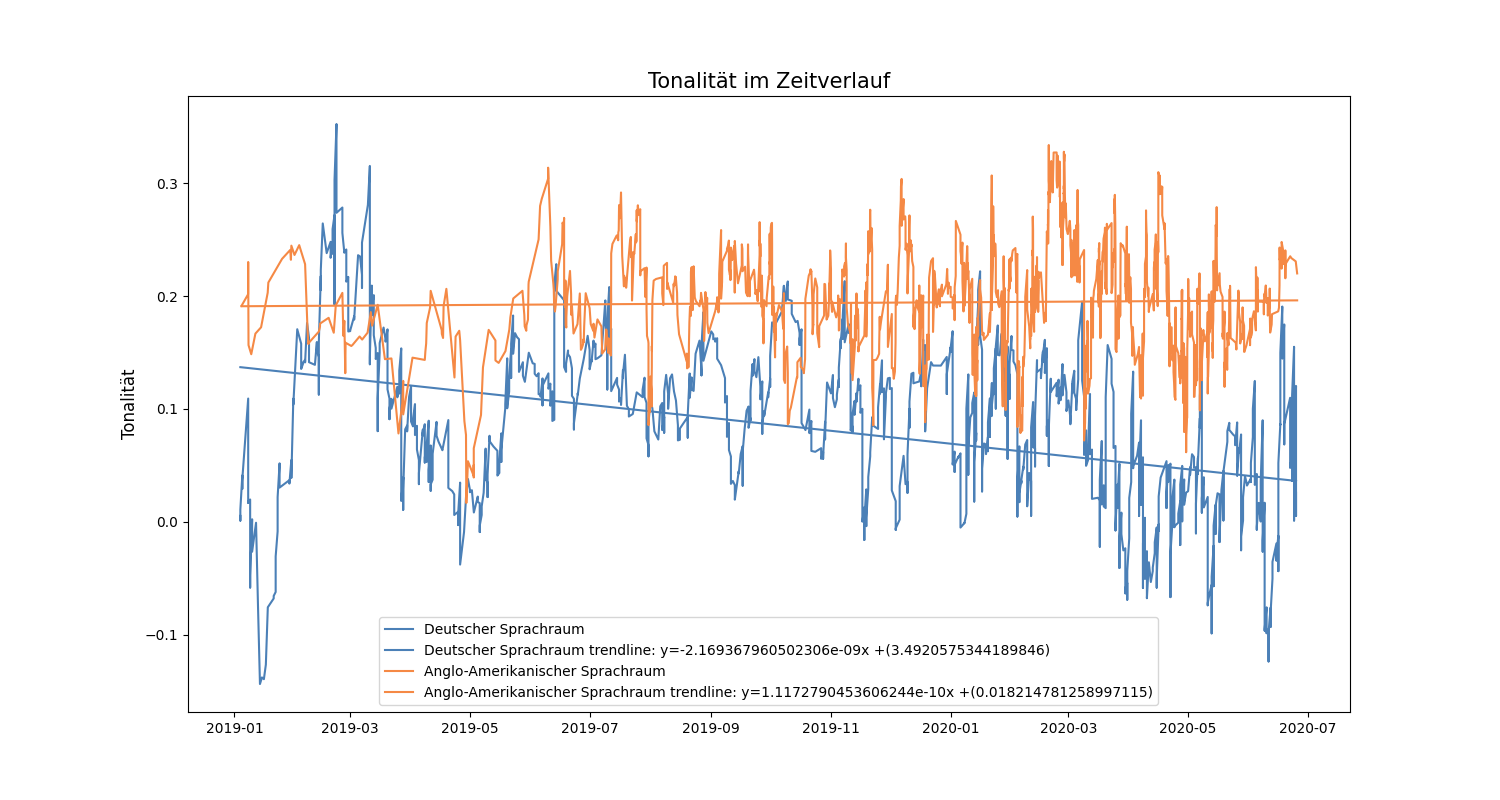
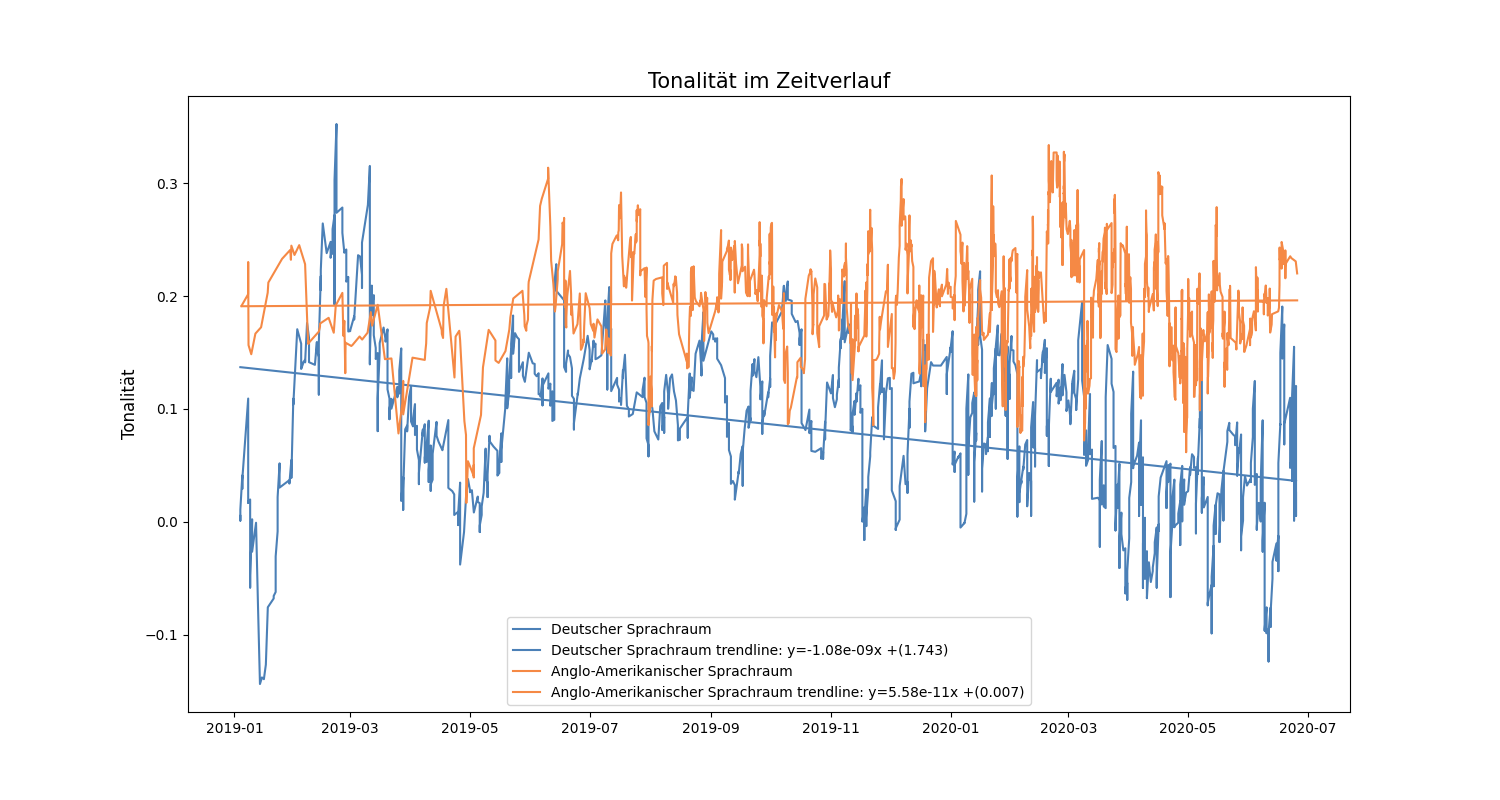
prettify

Changed region(s): [[0.276, 0.7812, 0.7667, 0.875]]

diff --git a/plots/sentiment_plots.py b/plots/sentiment_plots.py
@@ -67,9 +67,21 @@ for lang in data.keys():
     # calc the trendline
     x1 = [i.timestamp() for i in x]
     z = np.polyfit(x1, y, 1)
-    p = np.poly1d(z)
-    trendline_function="y="+str(z[0])+"x +("+str(z[1])+")"
-    plt.plot(x, p(x1), label=lang+" trendline: "+trendline_function,
+    p_func = np.poly1d(z)
+    p = str(z[0]/2)
+    p_e = p.find("e")
+    e = p[p_e:]
+    p_d = p.find(".")
+    d = p[:p_d+3]
+    p1 = d+e
+    p = str(z[1]/2)
+    p_e = p.find("e")
+    e = p[p_e:]
+    p_d = p.find(".")
+    d = p[:p_d+3]
+    p2 = d+e
+    trendline_function="y="+p1+"x +("+p2+")"
+    plt.plot(x, p_func(x1), label=lang+" trendline: "+trendline_function,
              color=colors[list(data.keys()).index(lang)])
 plt.title("Tonalität im Zeitverlauf",fontsize=15)
 plt.ylabel("Tonalität",fontsize=12)
